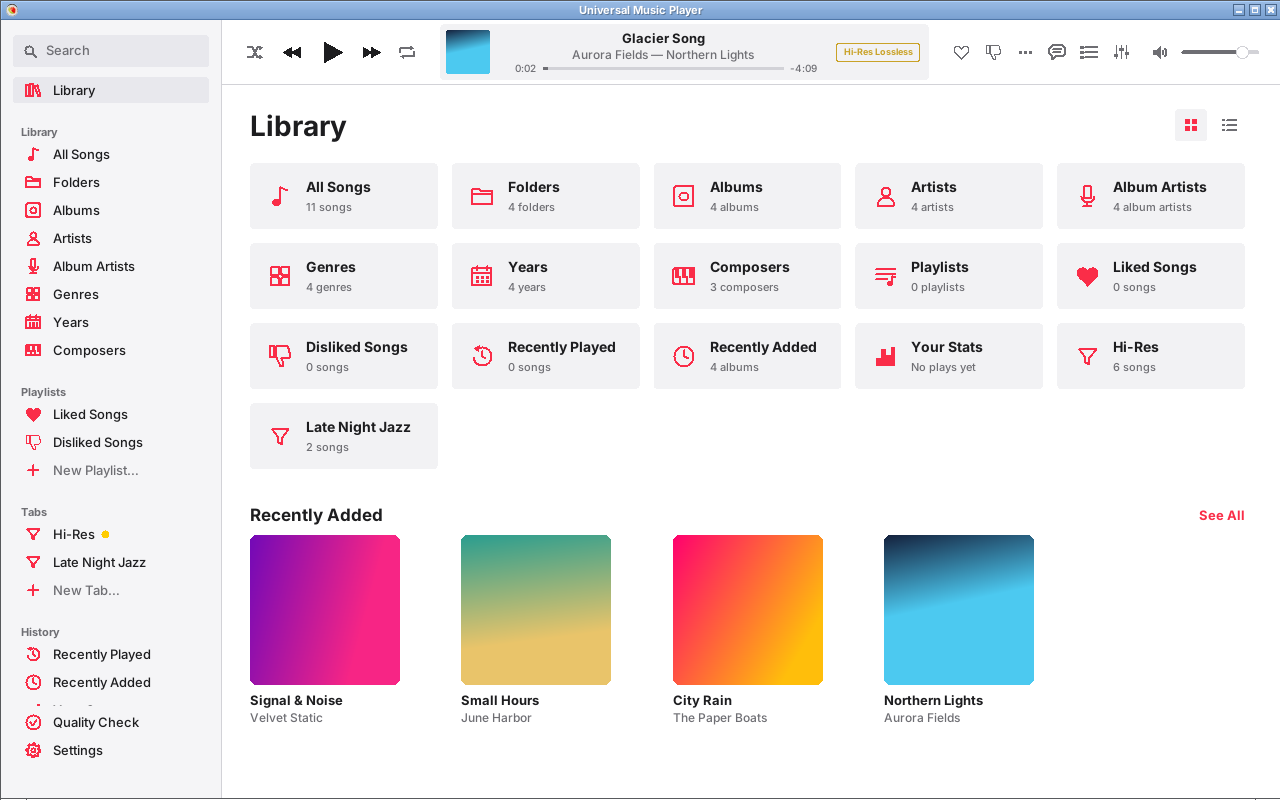
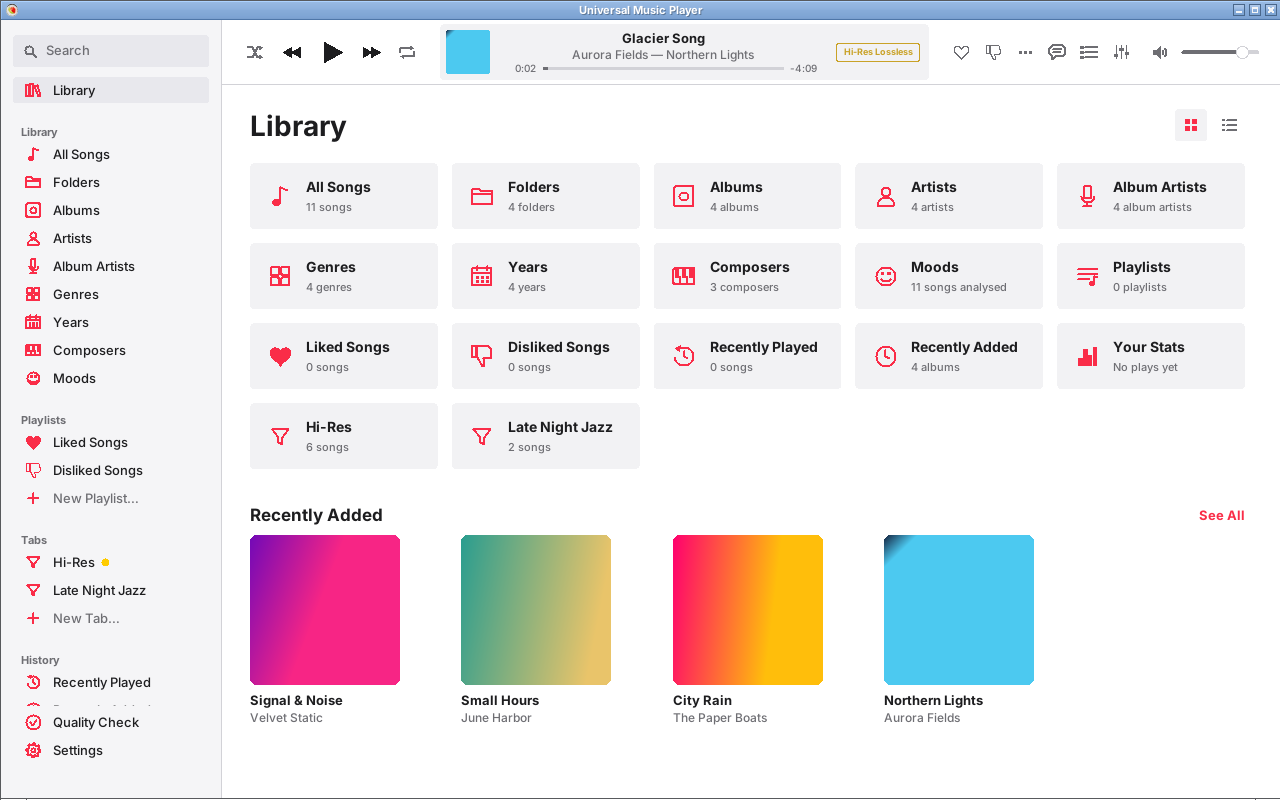
2.4.0: version, release notes, Library screenshot, Settings texts wrap within the page, test fixes after the merge
- Version 2.4.0 (realhires/__init__.py, pyproject.toml, rust/Cargo.toml) and
  What's new in 2.4.0 in packaging/RELEASE_NOTES.md; the MusicBrainz vectors
  carry the new User-Agent.
- docs/gui-player-library.png retaken with Moods (15 entries) and the Tabs.
- Tk Settings: every text wraps within the page (SettingsPage.fit_wraps());
  at 1024 px the help texts ran past its right edge. tests/test_settings_wrap.py.
- leaderboard_vectors.rs builds plays with their place (2.4 places).
- The Rust player tests' new_texts() leaves out the moods' progress text,
  which the background analysis puts in the sidebar at any frame.

Claude-Session: https://claude.ai/code/session_013PCXipuC2xbvVe3Ua4CYPa

diff --git a/realhires/player_pages.py b/realhires/player_pages.py
@@ -2383,7 +2383,7 @@ class SettingsPage(Page):
         self.inner = frame(self.canvas, t)
         self.win = self.canvas.create_window(0, 0, window=self.inner, anchor="nw")
         self.inner.bind("<Configure>", lambda e: self.canvas.configure(scrollregion=self.canvas.bbox("all")))
-        self.canvas.bind("<Configure>", lambda e: self.canvas.itemconfigure(self.win, width=e.width))
+        self.canvas.bind("<Configure>", self._canvas_resized)
         bind_wheel(self.canvas, lambda n: self.canvas.yview_scroll(n, "units"))
         self.help_labels: Dict[str, tk.Label] = {}
         self.vars: Dict[str, Any] = {}
@@ -2391,6 +2391,36 @@ class SettingsPage(Page):
         self.restart_note: Optional[tk.Frame] = None
         self.sections.selected = 0
         self.build()
+
+    def _canvas_resized(self, e) -> None:
+        self.canvas.itemconfigure(self.win, width=e.width)
+        self.fit_wraps(e.width)
+
+    def fit_wraps(self, width: Optional[int] = None) -> None:
+        """Wrap the page's texts within the width it has (2.4): a label keeps the
+        wraplength it was made with (HELP_WIDTH and the like) as its widest, and is
+        narrowed so that it ends inside the page, which at 1024 pixels is narrower than
+        HELP_WIDTH (the help texts were cut off at the right)."""
+        width = int(width or self.canvas.winfo_width())
+        if width <= 1:
+            return
+        stack = list(self.inner.winfo_children())
+        while stack:
+            w = stack.pop()
+            stack.extend(w.winfo_children())
+            if not isinstance(w, tk.Label):
+                continue
+            widest = getattr(w, "_widest_wrap", None)
+            if widest is None:
+                try:
+                    widest = int(float(str(w.cget("wraplength"))))
+                except (tk.TclError, ValueError):
+                    continue
+                w._widest_wrap = widest  # type: ignore[attr-defined]
+            if widest <= 0:
+                continue
+            x = w.winfo_rootx() - self.inner.winfo_rootx() if w.winfo_ismapped() else 28
+            w.configure(wraplength=max(160, min(widest, width - x - 24)))
 
     def show(self, group: Optional[str] = None, **kw) -> None:
         if group in settings_mod.GROUPS:
@@ -2424,6 +2454,7 @@ class SettingsPage(Page):
                 self._field(box, info, getattr(cfg, info["name"]))
         self._actions(box)
         self.canvas.yview_moveto(0)
+        self.after_idle(self.fit_wraps)  # once laid out: the texts wrap within the page (2.4)
 
     def _field(self, parent, info: dict, value) -> None:
         t = self.theme

diff --git a/tests/test_settings_wrap.py b/tests/test_settings_wrap.py
@@ -1,0 +1,55 @@
+"""The Settings page's texts wrap within the page (2.4): at the 1024 x 768 screens of
+the Windows and macOS CI runners the page is narrower than SettingsPage.HELP_WIDTH, and
+the help texts ran past its right edge."""
+
+import os
+
+import pytest
+
+from test_player_gui import _gui_available, _has_miniaudio, run_script
+
+
+@pytest.mark.skipif(not _has_miniaudio(), reason="miniaudio not installed")
+@pytest.mark.skipif(not _gui_available(), reason="needs Tkinter and a display")
+def test_settings_texts_wrap_within_the_page(tmp_path):
+    env = dict(os.environ, REALHIRES_SETTINGS=str(tmp_path / "settings.json"),
+               REALHIRES_PLAYER=str(tmp_path / "player.json"), REALHIRES_LIBRARY=str(tmp_path / "library.sqlite"),
+               REALHIRES_RESULTS=str(tmp_path / "results.sqlite"), REALHIRES_THEMES=str(tmp_path / "themes.json"),
+               REALHIRES_COVERS=str(tmp_path / "covers"), REALHIRES_TABS=str(tmp_path / "tabs"),
+               REALHIRES_AUDIO_BACKEND="null")
+    body = """
+import time
+import tkinter as tk
+from realhires import player_gui
+root = tk.Tk()
+root.geometry("1024x740+0+0")
+app = player_gui.PlayerApp(root)
+checked = 0
+for group in ("Library", "Playback", "Appearance", "Lyrics"):
+    app.show_page("settings", group=group)
+    end = time.monotonic() + 1.0
+    while time.monotonic() < end:
+        root.update()
+        time.sleep(0.02)
+    page = app.pages["settings"]
+    right = page.canvas.winfo_rootx() + page.canvas.winfo_width()
+    stack = list(page.inner.winfo_children())
+    while stack:
+        w = stack.pop()
+        stack.extend(w.winfo_children())
+        if isinstance(w, tk.Label) and w.winfo_ismapped() and int(float(str(w.cget("wraplength")))) > 0:
+            checked += 1
+            assert w.winfo_rootx() + w.winfo_reqwidth() <= right, (group, w.cget("text")[:60])
+    # a wider window gives the texts their full width again
+assert checked > 10, checked
+root.geometry("1600x900+0+0")
+end = time.monotonic() + 1.0
+while time.monotonic() < end:
+    root.update()
+    time.sleep(0.02)
+page = app.pages["settings"]
+assert any(int(float(str(w.cget("wraplength")))) == page.HELP_WIDTH for w in page.help_labels.values())
+root.destroy()
+print("OK")
+"""
+    run_script(tmp_path, body, env)

diff --git a/rust/crates/core/tests/leaderboard_vectors.rs b/rust/crates/core/tests/leaderboard_vectors.rs
@@ -63,6 +63,8 @@ fn leaderboards_equal_python() {
             genre: s(p, "genre"),
             year: s(p, "year"),
             composer: s(p, "composer"),
+            // 2.4: plays carry the place they were played at (none in these vectors)
+            place: p.get("place").filter(|v| !v.is_null()).map(|v| realhires::places::Place::from_json(v).unwrap()),
         })
         .collect();
     let kinds: Vec<String> = data.get("kinds").unwrap().as_array().unwrap().iter().map(|k| k.as_str().unwrap().to_string()).collect();

diff --git a/rust/crates/gui/src/player.rs b/rust/crates/gui/src/player.rs
@@ -4144,6 +4144,10 @@ mod tests {
         let mut rest: Vec<&str> = before.iter().map(|(t, _)| t.as_str()).collect();
         let mut out = vec![];
         for (t, _) in after {
+            // the moods' background analysis (2.4) changes the sidebar's status at any frame
+            if t.starts_with("Analysing moods") || t.starts_with("ムードを解析中") {
+                continue;
+            }
             match rest.iter().position(|b| b == t) {
                 Some(i) => {
                     rest.remove(i);

diff --git a/realhires/__init__.py b/realhires/__init__.py
@@ -10,6 +10,6 @@ two independent forensic tests:
   which exposes 16-bit audio padded with zeros into a 24-bit container.
 """
 
-__version__ = "2.3.0"
+__version__ = "2.4.0"
 APP_NAME = "Universal Music Player"
 PROJECT_URL = "https://github.com/SU2H1/Universal-Music-Player"

diff --git a/CLAUDE.md b/CLAUDE.md
@@ -195,7 +195,7 @@ Candidate source rates are limited to `rate * 1.5 <= file_rate`, so a 96 kHz fil
 
 ## Changelog
 
-- 2.4.0 (2026-11-25): the user's requests after 2.3.0 ("Folder cannot be scrolled, for stats allow to click the artist and songs, stats of the most played songs (like a leaderboard), location of where the song was played with the calendar, analyze whether are song are sad up-tempo etc. and create playlist"), all in both apps (`docs/player-spec.md`, section "2.4", and the three "2.4" rows above). Folders: the subfolders and songs are one scrolling list (Rust drew the subfolders into a page without a scroll area; Tk's subfolder list ignored `configure(height=)`). Your Stats: every song, artist, album and genre named is a link, the Leaderboard section (Songs/Artists/Albums) and the Most Played page (`stats.leaderboard()`). Where a song was played: asked about the source, the user chose the approximate location from the internet; FreeIPAPI's free API was chosen after reading the terms of FreeIPAPI, ipwho.is, ipapi.co and ipinfo.io; off by default (`play_location`), the place columns of `plays`, the day list's places, Your Stats' Places and a place's page, Forget play locations…. Moods: `moods.py`/`moods.rs` (tempo, energy, brightness, key; Up-tempo/Mid-tempo/Slow, Energetic/Calm, Happy/Sad/Chill/Intense, estimates), the `moods` table, `analyse_moods` (on), the Moods page and cards with Create Playlist, BPM and Mood columns, Details rows and tab fields; the Library page has fifteen entries. Built by three helper agents in worktrees from the spec, merged and tested by the lead. `DETECTOR_VERSION` stays 1.
+- 2.4.0 (2026-11-25): the user's requests after 2.3.0 ("Folder cannot be scrolled, for stats allow to click the artist and songs, stats of the most played songs (like a leaderboard), location of where the song was played with the calendar, analyze whether are song are sad up-tempo etc. and create playlist"), all in both apps (`docs/player-spec.md`, section "2.4", and the three "2.4" rows above). Folders: the subfolders and songs are one scrolling list (Rust drew the subfolders into a page without a scroll area; Tk's subfolder list ignored `configure(height=)`). Your Stats: every song, artist, album and genre named is a link, the Leaderboard section (Songs/Artists/Albums) and the Most Played page (`stats.leaderboard()`). Where a song was played: asked about the source, the user chose the approximate location from the internet; FreeIPAPI's free API was chosen after reading the terms of FreeIPAPI, ipwho.is, ipapi.co and ipinfo.io; off by default (`play_location`), the place columns of `plays`, the day list's places, Your Stats' Places and a place's page, Forget play locations…. Moods: `moods.py`/`moods.rs` (tempo, energy, brightness, key; Up-tempo/Mid-tempo/Slow, Energetic/Calm, Happy/Sad/Chill/Intense, estimates), the `moods` table, `analyse_moods` (on), the Moods page and cards with Create Playlist, BPM and Mood columns, Details rows and tab fields; the Library page has fifteen entries. Also: the Tk Settings page's texts wrap within the page (`SettingsPage.fit_wraps()` narrows every label's wraplength to the width left, keeping the width it was made with as its widest; at 1024 px they ran past the right edge), checked by `tests/test_settings_wrap.py`. Built by three helper agents in worktrees from the spec, merged and tested by the lead. `DETECTOR_VERSION` stays 1.
 - Priorities (2026-11-25): the user asked that building a functional release be the first priority and that the antivirus scan be dealt with only in down time; the standing instruction on releases says so.
 - 2.3.0 release (2026-11-25): published at 07:05 UTC by run 107 (45563117792), the first release made the new way (release first, scan after); the scan finished at 08:18. Every file was clean on VirusTotal except three, each flagged only by Microsoft's `!ml` heuristic (`Wacatac.B!ml`): `UniversalMusicPlayer-Rust-2.3.0-macos-arm64.dmg` (unpacked with `7z`, its 10 files have the same SHA-256 as those of the clean `.zip`) and, for the first time, the Python version's Windows launchers `UniversalMusicPlayer.exe` and `realhires-cli.exe` (their SHA-256 equal the ones the release run's Windows job printed, so they are exactly what CI built from the tag's source: PyInstaller's launcher compiled on the runner, with version information, run by the smoke test; no other engine of 70 flags them, and the Rust programs are clean). All three are recorded in `packaging/av_reviews.json`, and `av-scan.yml` was run for v2.3.0 from the working branch so the page shows the checks before the entries reach `main`. Kaspersky had not categorised the files yet (Grey zone).
 - 2.3.0 (2026-11-25): the user's requests of 2026-11-25, all in both apps (see `docs/player-spec.md`, section "2.3", and the "2.3 additions" row above): Up Next can be edited (drag to reorder, right-click → Remove from Up Next; first built in SU2H1/Real-Hi-Res PR #8, then ported here at the user's choice); Change Cover… in the song and album menus and Search Cover Online in the Cover window; the Library page as tiles or a list (`library_layout`); choosing genres to merge and rename (Select); an instrumental song's cover centred; a back link at Now Playing's top left; custom tabs as rule files in a tabs folder (the user chose rule files); the equalizer working with bit-perfect playback (64-bit, dither for integer devices, the device kept exclusive; the user chose "Allow EQ, keep exclusive"); the Equalizer window's close button at its right edge and its rows wrapping; More colours for every colour the app draws, quality colours (Hi-Res gold) and colour labels on songs, albums, artists, genres, years, composers, playlists and tabs (the user chose quality types, every UI colour and library items); Lyrics only (lyrics filling Now Playing, as chosen); swiping the cover to the album's songs with the current one bold; Acquire Metadata… and a Search button per field in Properties, with the copied text filled in from the clipboard; the chosen day's plays beside the Your Stats calendar; Details centred like the cover. CI showed several runner differences, now in "Conventions and gotchas" (1024 × 768 screens, Cmd-click on macOS, window-wide Esc, Shift-MouseWheel, Tk `raise`, `_configure`), and a race in the bit-perfect GUI test (the equalizer restarts the song on a timer, so the test takes the restart count before the change). Built by six helper agents in worktrees from the spec (Library, covers, Now Playing, playback, tabs, colours), merged, wired together (colour labels on tabs) and tested by the lead. `DETECTOR_VERSION` stays 1.

diff --git a/packaging/RELEASE_NOTES.md b/packaging/RELEASE_NOTES.md
@@ -1,18 +1,12 @@
-## What's new in 2.3.0
+## What's new in 2.4.0
 
-**Up Next can be edited.** Drag a song in Up Next (the panel or Now Playing's Up Next view) to another place, with a line showing where it will go, or right-click it and choose **Remove from Up Next**. A removed song stays out until you play another list, also when you change the shuffle mode.
+**Folders scroll.** The Folders page is one list again: a folder's subfolders come first, then its songs, and the whole page scrolls with the mouse wheel, the trackpad or the scroll bar, however many subfolders and songs it holds.
 
-**Custom tabs.** A tab is a saved set of rules that picks songs from your library, such as "Hi-Res", "Lossy", "Added in the last 30 days" or anything else, shown in the sidebar under **Tabs** and on the Library page. **New Tab…** opens the tab window, where each rule is a field (title, artist, genre, quality, year, bit depth, sample rate, bit rate, length, days since added, liked and more), an operator and a value, and a line says how many songs match while you change them. Each tab is one small `.json` file in the tabs folder, so tabs can be shared: **Export Tab…** writes the file, and **Settings → Library → Import tab…** (or dropping the file onto the Rust version's window, or copying it into the tabs folder) adds it. A tab file holds only fields, operators and values, so no code runs when you open one.
+**Your Stats.** Every song, artist, album and genre named on Your Stats is now a link: a song plays (with the rest of that list after it), an artist, album or genre opens its page, and a right-click on a song opens its menu. The new **Leaderboard** ranks your most played **Songs**, **Artists** or **Albums** of the chosen period, with plays and minutes and the top three on gold, silver and bronze; **See All** opens **Most Played**, the whole ranking of up to 100, with Play and Shuffle.
 
-**Colours.** The theme editor lists **More colours**: every other colour the app draws, from the row under the pointer, the selected item and text fields to the quality colours and the Quality Check verdicts. Unless your theme sets them, they follow its eight colours. The quality badge and the Quality column now show Hi-Res Lossless in gold, Lossless in the accent colour and lossy in grey. **Colour Label ▸** in the menu of every song, album, artist, album artist, genre, year, composer, playlist and tab marks it with a small dot in a colour of your choice.
+**Where a song was played.** Turn on **Settings → Playback → Remember where songs were played** (it is off until you do) and each play is stored with the approximate place you were in: the city, region and country. Your Stats then names the place beside each play of the day you pick in the calendar, and a **Places** part lists where you listened, with plays and minutes; click a place to play its songs. The place comes from FreeIPAPI's free service (free.freeipapi.com), which sees only your computer's IP address: one request when the app starts or the setting is turned on, then at most every two hours while music plays, and no song, path or tag is ever sent. The places stay in your library file on your computer, and **Forget play locations…** removes them.
 
-**Now Playing.** A back link at the top left returns to where you came from (the search results, All Songs, an album and so on). **Lyrics only** (next to A− / A+) hides the cover so that the lyrics fill the page, and an instrumental song's cover is centred by itself. Drag or swipe the cover sideways to see the album's songs, with the one playing in bold. **Details** is centred like the cover.
-
-**Covers and song information.** **Change Cover…** is in the right-click menus of songs and albums, and the Cover window has **Search Cover Online**, which opens your browser on an image search for the artist and album. The **Properties** window has **Acquire Metadata…**, and each field has a **Search** button that opens your browser on a web search for that field (for example the composer of the song); text you copy there within two minutes is filled in for you.
-
-**Library.** **Settings → Appearance → Library page** (or the two small buttons next to the Library title) shows the Library page as tiles or as a list. On the Genres page, **Select** lets you choose several genres and **Merge…** them under one name. In Your Stats, the songs of the chosen day are listed beside the calendar instead of under it, when the window is wide enough.
-
-**Equalizer.** The equalizer now works together with bit-perfect playback: it is applied in 64-bit precision, with dither for devices that take integers, while the device still runs at the song's own rate for this app alone. The Playback info says so, and turning the equalizer off gives bit-perfect sound again. The Equalizer window's close button is at its right edge, and its rows wrap instead of being cut off.
+**Moods and playlists.** The player listens to your songs on your computer, in the background, and estimates each one's tempo (BPM), energy and key. From these it labels songs **Up-tempo**, **Mid-tempo** or **Slow**, **Energetic** or **Calm**, and **Happy**, **Sad**, **Chill** or **Intense**. They are estimates from the sound, and the app says so. The new **Moods** entry on the Library page shows a card for each label with its songs, and **Create Playlist** turns any of them into a playlist ("Sad songs"). Song lists can show **BPM** and **Mood** columns, Now Playing's Details shows the mood, tempo and key, and custom tabs can use them as rules. Nothing is sent anywhere; **Settings → Library → Analyse moods and tempo** turns it off.
 
 Everything new is in Japanese too when Settings → Appearance → Language is set to 日本語.
 

diff --git a/README.md b/README.md
@@ -66,7 +66,7 @@ Every release page has an **Antivirus scan results** section. It lists each down
 
 Since version 2.0 the desktop app opens as a music player. Its window looks and works much like Apple Music. The first time, choose your music folder (the Library page offers a button, or use **Settings → Library**); Real-Hi-Res reads the tags of its songs in the background and keeps them, so the next start shows your library at once.
 
-![The Library page: the tiles from All Songs to Your Stats, then two custom tabs, the albums added last, and the sidebar with its Tabs section](docs/gui-player-library.png)
+![The Library page: the tiles from All Songs to Your Stats, then two custom tabs, the albums added last, and the sidebar with Moods and its Tabs section](docs/gui-player-library.png)
 
 **The Library page** is where the app starts. Its tiles, each with a count, open the pages below; **Settings → Appearance → Library page** (or the two small buttons at the right of the Library title) shows them as **tiles** or as a **list** with one entry per row:
 
